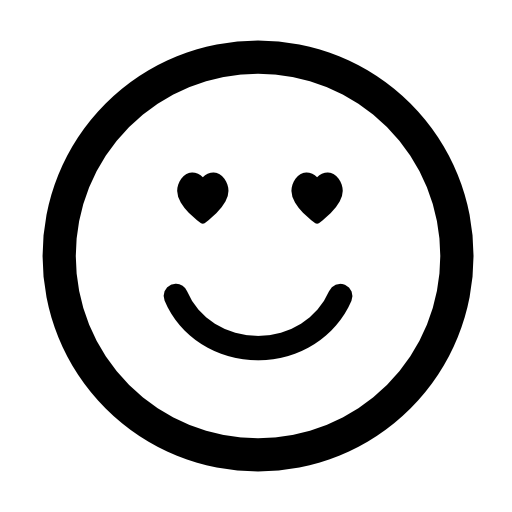
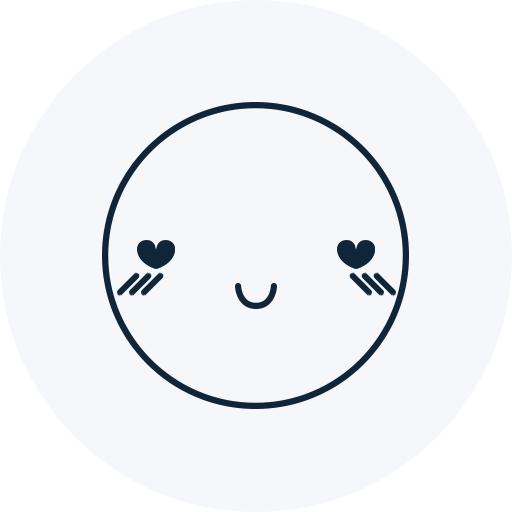
Final state menu fix. Set cache to false. New images.

diff --git a/www/js/app.js b/www/js/app.js
@@ -29,18 +29,21 @@ angular.module('starter',
 .config(function($stateProvider, $urlRouterProvider) {
   $stateProvider
   .state('login', {
+      cache: false,
       url: '/login',
       templateUrl: 'templates/login.html',
       controller: 'LoginCtrl'
   })
 
   .state('register', {
+      cache: false,
       url: '/register',
       templateUrl: 'templates/register.html',
       controller: 'RegisterCtrl'
   })
 
   .state('app', {
+    cache: false,
     url: "/app",
     abstract: true,
     templateUrl: "templates/menu.html",
@@ -48,6 +51,7 @@ angular.module('starter',
   })
 
   .state('app.profile', {
+    cache: false,
     url: "/profile",
     views: {
       'menuContent': {
@@ -58,6 +62,7 @@ angular.module('starter',
   })
 
   .state('app.caretaker', {
+    cache: false,
     url: "/caretaker",
     views: {
       'menuContent': {
@@ -67,6 +72,7 @@ angular.module('starter',
   })
 
   .state('app.settings', {
+    cache: false,
     url: "/settings",
     views: {
       'menuContent': {
@@ -76,6 +82,7 @@ angular.module('starter',
   })
 
   .state('app.assistance', {
+    cache: false,
     url: "/assistance",
     views: {
       'menuContent': {
@@ -84,16 +91,8 @@ angular.module('starter',
     }
   })
 
-  .state('app.language', {
-    url: "/language",
-    views: {
-      'menuContent': {
-        templateUrl: "templates/language.html"
-      }
-    }
-  })
-
   .state('app.notifications', {
+    cache: false,
     url: "/notifications",
     views: {
       'menuContent': {
@@ -103,6 +102,7 @@ angular.module('starter',
   })
 
   .state('app.states', {
+    cache: false,
     url: "/states",
     views: {
       'menuContent': {
@@ -113,6 +113,7 @@ angular.module('starter',
   })
 
   .state('app.state1', {
+    cache: false,
     url: "/state1",
     views: {
       'menuContent': {
@@ -123,6 +124,7 @@ angular.module('starter',
   })
 
   .state('app.state2', {
+    cache: false,
     url: "/state2",
     views: {
       'menuContent': {
@@ -133,6 +135,7 @@ angular.module('starter',
   })
 
   .state('app.state3', {
+    cache: false,
     url: "/state3",
     views: {
       'menuContent': {
@@ -143,6 +146,7 @@ angular.module('starter',
   })
 
   .state('app.statefinal', {
+    cache: false,
     url: "/statefinal",
     views: {
       'menuContent': {

diff --git a/www/app/state/StateFinalCtrl.js b/www/app/state/StateFinalCtrl.js
@@ -1,5 +1,61 @@
-angular.module('starter.StateCtrl').controller('StateFinalCtrl', ['$scope', '$state', 'StateService', 'localStorageService',
-    function($scope, $state, StateService, localStorageService) {
+angular.module('starter.StateCtrl').controller('StateFinalCtrl', ['$scope', '$state','$ionicHistory', 'StateService', 'localStorageService',
+    function($scope, $state, $ionicHistory, StateService, localStorageService) {
         console.log('into StateFinalCtrl');
+
+        $state.reload();
+
+        var encodedlogin = "";
+        var feeling = "";
+        var catid = "";
+        var stateid = "";
+
+        $scope.state = [];
+
+        getLocalStorage();
+        //$ionicHistory.clearHistory();
+
+        function getLocalStorage() {
+            encodedlogin = localStorageService.get("ls-encoded");
+            feeling = localStorageService.get("ls-feeling");
+            catid = localStorageService.get("ls-catid");
+            stateid = localStorageService.get("ls-stateid");
+
+            loadState();
+            
+            // //IMPORTANT include some random messages in the api
+            // if(feeling=='up'){
+            //     $scope.message="Glad to hear you are doing well! You can talk to me about anything.";
+            // }
+            // if(feeling=='down'){
+            //     $scope.message="Sorry to hear you're having a bad moment, talking about it might make you feel a little better.";
+            // }
+        }
+
+        function loadState() {
+            var result = StateService.getMyState(encodedlogin,stateid);
+            result.success(getStateSuccess).error(getStateError);
+        }
+
+        function getStateSuccess(success) {
+            $scope.state = success;
+            console.log($scope.state);
+
+   			//$state.transitionTo($state.current, $state.$current.params, {
+			//     reload: true,
+			//     inherit: false,
+			//     notify: true
+			// });
+
+            //$state.reload();
+           // $route.reload();
+        }
+
+        function getStateError(error) {
+            $scope.error = error;
+        }
+
+        $scope.toExpressions = function(){
+        	$state.go('app.states');
+    	}
     }
 ]);

diff --git a/www/app/state/StateService.js b/www/app/state/StateService.js
@@ -4,7 +4,8 @@ angular.module('starter.StateService', []).factory('StateService', ['$http', '$q
             getStates: getStates,
             getMyStates: getMyStates,
             postState: postState,
-            postTextState: postTextState
+            postTextState: postTextState,
+            getMyState: getMyState
         };
 
         function getStates($encodedLogin) {
@@ -14,6 +15,20 @@ angular.module('starter.StateService', []).factory('StateService', ['$http', '$q
             var request = $http({
                 method: "get",
                 url: apiUrl + "/states",
+                headers: {
+                    'Authorization': 'Basic ' + $encodedLogin
+                }
+            });
+            return request;
+        }
+
+        function getMyState($encodedLogin,$stateid) {
+            console.log("into Service getStates");
+            console.log("apiUrl", apiUrl);
+
+            var request = $http({
+                method: "get",
+                url: apiUrl + "/states/" + $stateid,
                 headers: {
                     'Authorization': 'Basic ' + $encodedLogin
                 }

diff --git a/www/templates/statefinal.html b/www/templates/statefinal.html
@@ -1,8 +1,23 @@
-<ion-view view-title="Step 3">
+<ion-view view-title="Result" hide-back-button="true">
+<ion-nav-buttons side="left">
+  <button class="button button-icon button-clear ion-navicon" menu-toggle="left">
+  </button>
+</ion-nav-buttons>
+
   <ion-content padding="true">
   	<div id="container">
   		<!-- hier ook zien of er telkens een ander zinnetje kan komen? optioneel -->
-	    <h1>How about doing this?</h1>
+  		<div id="user-img">
+			<img ng-src="img/expressions/{{state.category.name}}.png">
+		</div>
+		<h3>So you are feeling {{state.category.name}}?</h3>
+	    <!-- <p class="quote">{{state.text}}</p> -->
+	    <p>Maybe this can help you:<p>
+	    <p class="quote">[Random notification based on feeling will appear here]</p>
+<!-- 	    <a class="button button-block button-positive ion-ios-heart" href="#/app/states"> Go to my expressions</a>
+	    <button class="button button-block button-positive ion-ios-heart" ng-click="toExpressions()">
+			Go to my expressions
+		</button>  -->
 	    
     </div>
   </ion-content>

diff --git a/www/app/state/State3Ctrl.js b/www/app/state/State3Ctrl.js
@@ -5,6 +5,7 @@ angular.module('starter.StateCtrl').controller('State3Ctrl', ['$scope', '$state'
         $scope.allStates = [];
         $scope.message = "";
         $scope.input = {};
+        $scope.feeling = "";
 
         var encodedlogin = "";
         var feeling = "";
@@ -16,6 +17,7 @@ angular.module('starter.StateCtrl').controller('State3Ctrl', ['$scope', '$state'
         function getLocalStorage() {
             encodedlogin = localStorageService.get("ls-encoded");
             feeling = localStorageService.get("ls-feeling");
+            $scope.feeling=feeling;
             catid = localStorageService.get("ls-catid");
             
             //IMPORTANT include some random messages in the api
@@ -59,6 +61,7 @@ angular.module('starter.StateCtrl').controller('State3Ctrl', ['$scope', '$state'
             $scope.success = success;
             $scope.submitSuccess = true;
             stateid = $scope.success._id;
+            localStorageService.set("ls-stateid", stateid);
             updateUser();
         }
 

diff --git a/www/app/state/State2Ctrl.js b/www/app/state/State2Ctrl.js
@@ -29,6 +29,8 @@ angular.module('starter.StateCtrl').controller('State2Ctrl', ['$scope', '$state'
         function updateUserSuccess(success) {
             $scope.state = success;
             $state.go('app.statefinal');
+
+            //$state.go($state.cur'app.statefinal');
         }
 
         function updateUserError(error) {
@@ -62,6 +64,7 @@ angular.module('starter.StateCtrl').controller('State2Ctrl', ['$scope', '$state'
             $scope.success = success;
             $scope.submitSuccess = true;
             stateid = $scope.success._id;
+            localStorageService.set("ls-stateid", stateid);
             updateUser();
         }
 

diff --git a/www/templates/states.html b/www/templates/states.html
@@ -4,7 +4,7 @@
 	    <button class="button button-block button-positive ion-ios-heart" ng-click="expressFeelings()">
 			Express your feelings
 		</button> 
-	    <p>Your latest entries:</p>
+	    <p class="quote">Your latest entries:</p>
 	    <div class="flash-alert" ng-show="allStates.length==0">
 	      <p>You don't have any entries yet.</p>
 	    </div>
@@ -12,7 +12,7 @@
 		    <a class="item item-avatar">
 			    <img ng-src="img/expressions/{{state.category.name}}.png">
 			    <h2>{{state.category.name}}</h2>
-			    <p>{{state.text}}</p>
+			    <p class="quote">{{state.text}}</p>
 		    </a>
 		</div>
     </div>

diff --git a/www/app/state/StateCtrl.js b/www/app/state/StateCtrl.js
@@ -16,6 +16,7 @@ angular.module('starter.StateCtrl').controller('StateCtrl', ['$scope', '$state',
         function loadStates() {
             var result = StateService.getMyStates(encodedlogin);
             result.success(getStatesSuccess).error(getStatesError);
+            $state.reload();
         }
 
         function getStatesSuccess(success) {

diff --git a/www/templates/state3.html b/www/templates/state3.html
@@ -3,7 +3,7 @@
   	<div id="container">
 	    <!-- <h1>Talk about it</h1> -->
 	    		<div id="user-img">
-			    <img src="img/smiley.png">
+			    <img src="img/expressions/{{feeling}}.png">
 			    </div>
 			    <p class="quote">"{{message}}"</p>
 
